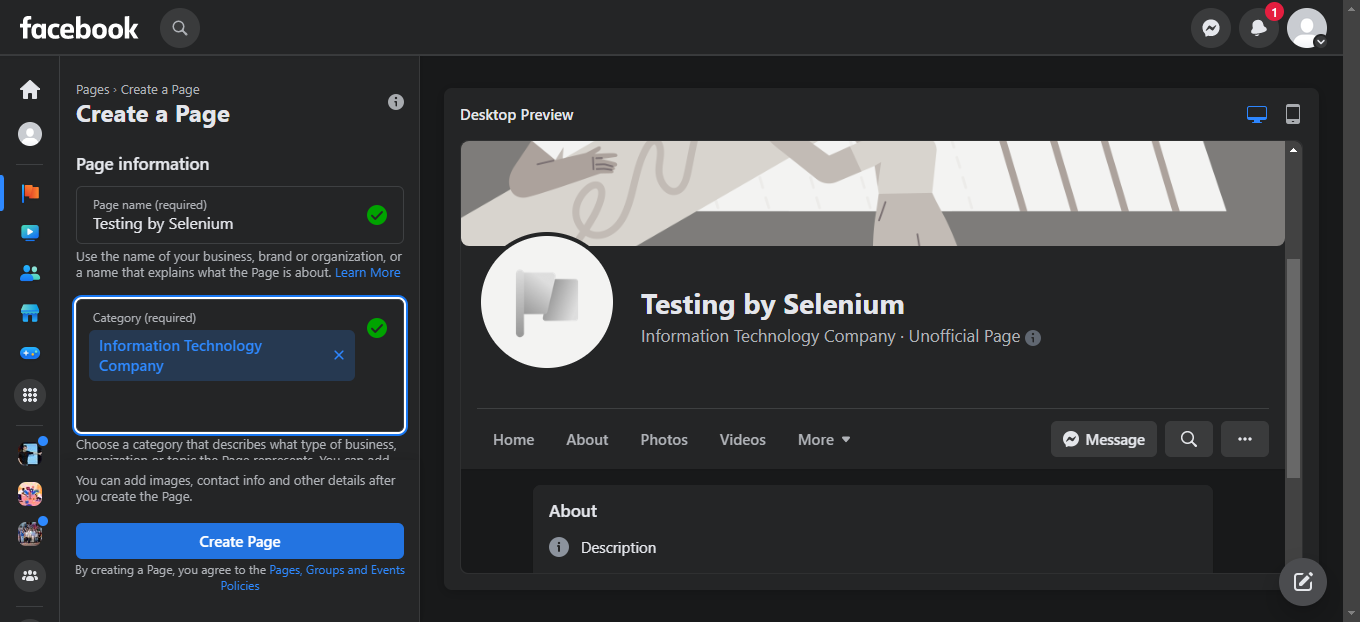
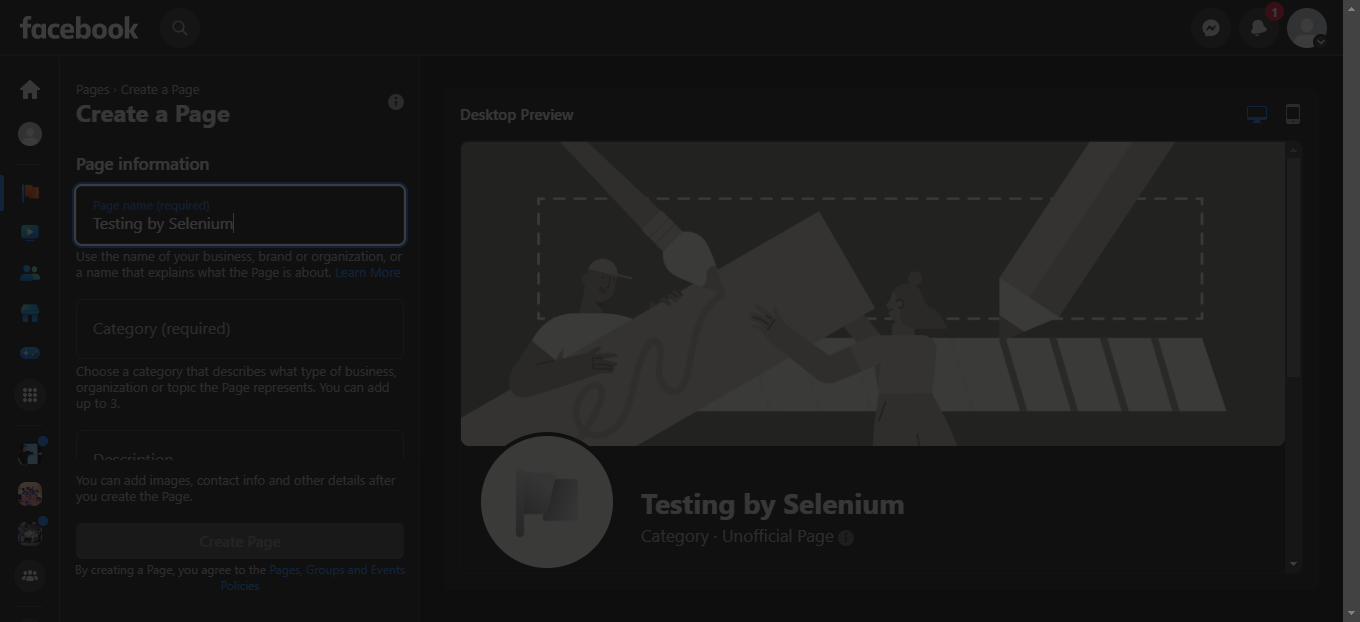
Selection & Button error

diff --git a/src/main/java/pages/CreatePage.java b/src/main/java/pages/CreatePage.java
@@ -2,6 +2,7 @@ package pages;
 
 import org.openqa.selenium.By;
 import org.openqa.selenium.WebDriver;
+import org.openqa.selenium.support.ui.Select;
 
 public class CreatePage {
 
@@ -23,8 +24,8 @@ public class CreatePage {
     By PageName = By.id("jsc_c_v");
 
     By Category = By.cssSelector("[class='x1jx94hy x8cjs6t x1ch86jh x80vd3b xckqwgs x1268tai x1mxuytg x14hpm34 xqvykr2 x13fuv20 xu3j5b3 x1q0q8m5 x26u7qi x178xt8z xm81vs4 xso031l xy80clv x78zum5 xdt5ytf x6ikm8r x10wlt62 x1n2onr6 x1ja2u2z x1egnk41 x1ed109x x1a2a7pz']");
-
-    By CreateButton = By.cssSelector("[class= 'x1o1ewxj x3x9cwd x1e5q0jg x13rtm0m x1ey2m1c xds687c xg01cxk x47corl x10l6tqk x17qophe x13vifvy x1ebt8du x19991ni x1dhq9h x1wpzbip']");
+    By selCategory = By.cssSelector("[class=\"x1yc453h\"]");
+    By CreateButton = By.cssSelector("[class= 'x9f619 x1n2onr6 x1ja2u2z x78zum5 xdt5ytf x193iq5w xeuugli x1r8uery x1iyjqo2 xs83m0k xsyo7zv x16hj40l x10b6aqq x1yrsyyn']");
     public void createpage(){
         driver.findElement(clickCreatePage).click();
     }
@@ -54,7 +55,14 @@ public class CreatePage {
     }
     public void categorydata(String category){
         driver.findElement(Category).sendKeys(category);
+
     }
+
+    public void setSelCategory(){
+        driver.findElement(selCategory).click();
+
+    }
+
     public void clickcreatebutton(){
         driver.findElement(CreateButton).click();
     }

diff --git a/src/main/java/pages/BasePage.java b/src/main/java/pages/BasePage.java
@@ -34,21 +34,21 @@ public class BasePage {
 
   }
 
-   @AfterClass
-   public void tearDown() {
-    driver.quit();
-
-  }
-
-  @AfterMethod
-  public void takeScreenShot(){
-    File L1img = ((TakesScreenshot) driver).getScreenshotAs(OutputType.FILE);
-    try {
-        FileUtils.copyFile(L1img, new File("I:\\New folder\\WEB-TESTING\\ScreenShot\\L1img.png"));
-    } catch (IOException e) {
-        throw new RuntimeException(e);
-    }
-
-  }
+//   @AfterClass
+//   public void tearDown() {
+//    driver.quit();
+//
+//  }
+//
+//  @AfterMethod
+//  public void takeScreenShot(){
+//    File L1img = ((TakesScreenshot) driver).getScreenshotAs(OutputType.FILE);
+//    try {
+//        FileUtils.copyFile(L1img, new File("I:\\New folder\\WEB-TESTING\\ScreenShot\\L1img.png"));
+//    } catch (IOException e) {
+//        throw new RuntimeException(e);
+//    }
+//
+//  }
 
 }

diff --git a/src/test/java/TC_CREATEPAGE/TC_NEWPAGE.java b/src/test/java/TC_CREATEPAGE/TC_NEWPAGE.java
@@ -15,11 +15,12 @@ public class TC_NEWPAGE extends BasePage {
         cpFB.createpage();
         cpFB.communitypage();
         Assert.assertTrue(true, String.valueOf(cpFB.msgMustLogin()));
-        cpFB.emaildata("fakedata");
-        cpFB.passworddata("fakedata");
+        cpFB.emaildata("rowida.abasirii@outlook.com");
+        cpFB.passworddata("test123@456");
         cpFB.loginButton();
         cpFB.pagenamedata("Testing by Selenium");
         cpFB.categorydata("Information Technology Company");
+        cpFB.setSelCategory();
         cpFB.clickcreatebutton();
     }
 }
